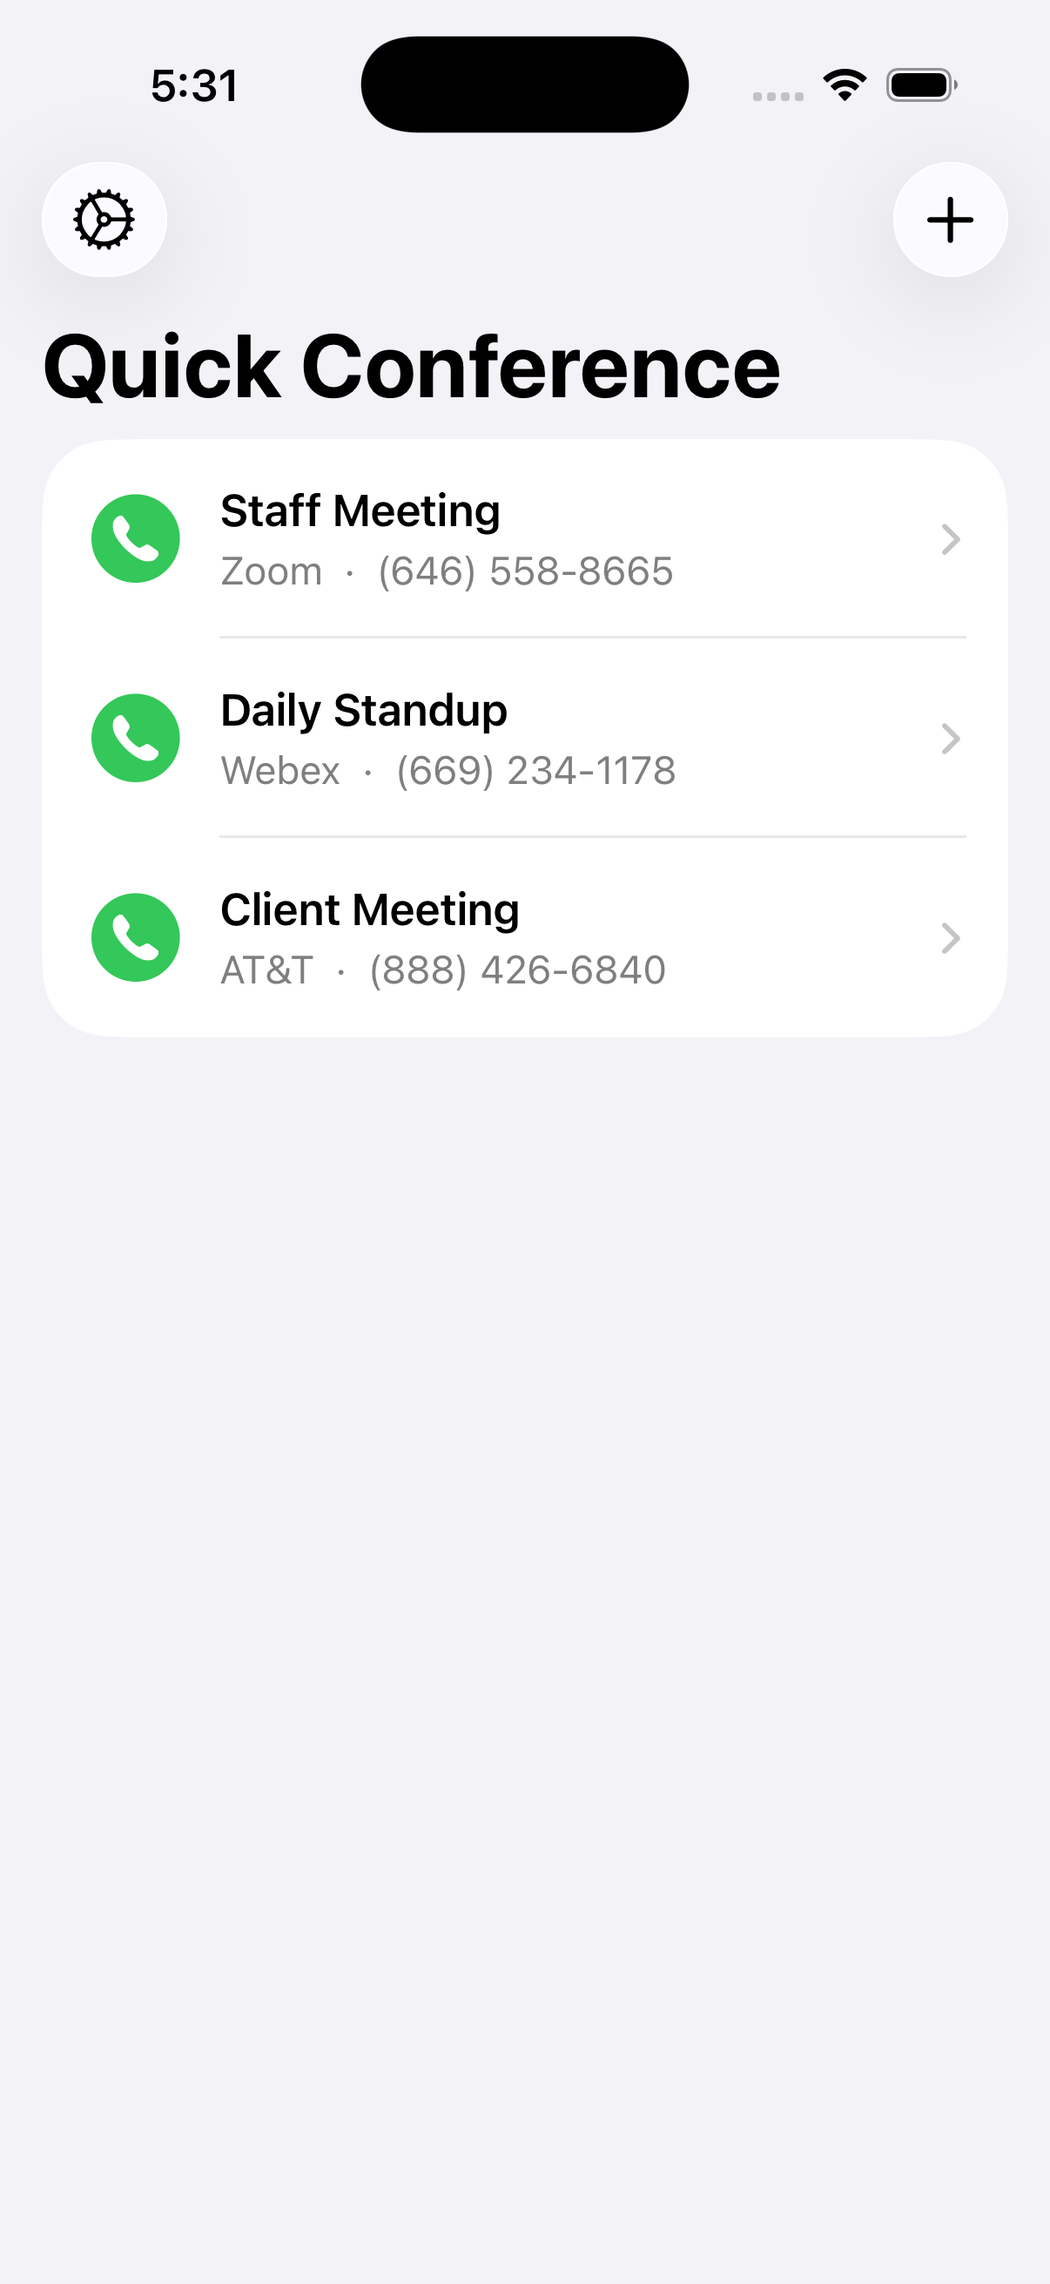
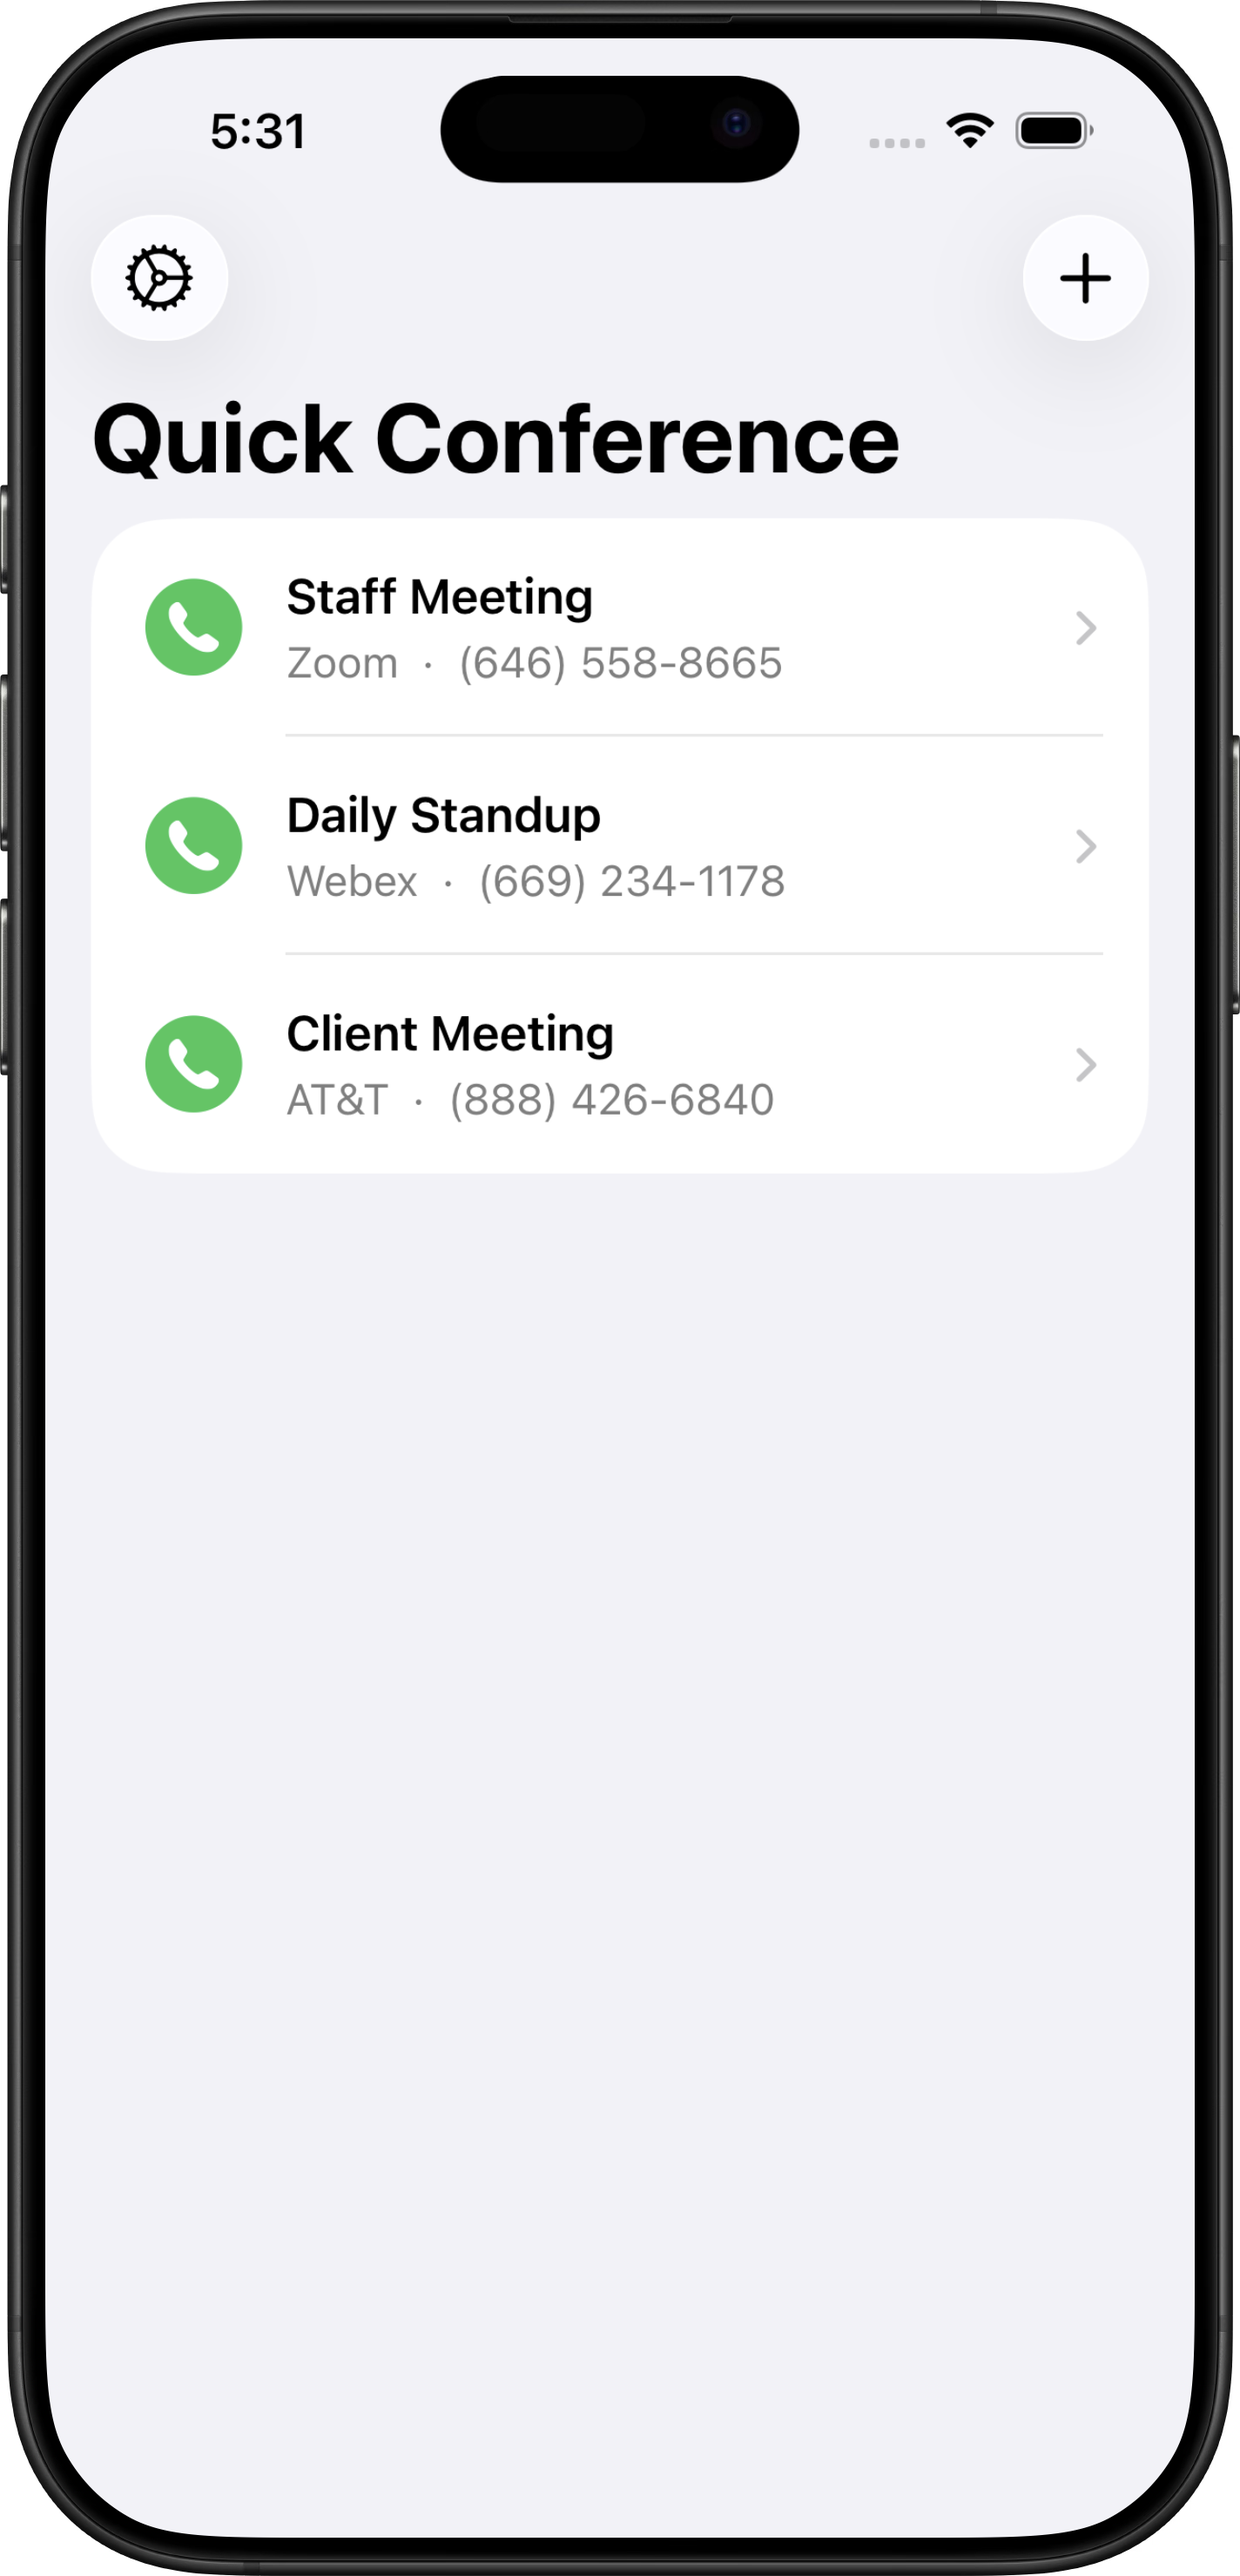
Use iPhone frame screenshot with transparent background

Changed region(s): [[0.0, 0.0, 1.0, 1.0], [0.092, 0.2162, 0.6443, 0.4325], [0.859, 0.0927, 0.9204, 0.1236]]

diff --git a/styles.css b/styles.css
@@ -136,9 +136,7 @@ body {
 }
 
 .app-screenshot {
-  width: 280px;
-  border-radius: 44px;
-  box-shadow: 0 30px 80px rgba(0,0,0,0.18);
+  width: 300px;
   display: block;
 }
 
@@ -289,7 +287,7 @@ footer a:hover { color: var(--blue); }
 
   .hero-image { order: -1; }
 
-  .app-screenshot { width: 240px; }
+  .app-screenshot { width: 220px; }
 
   .feature-grid {
     grid-template-columns: 1fr;
